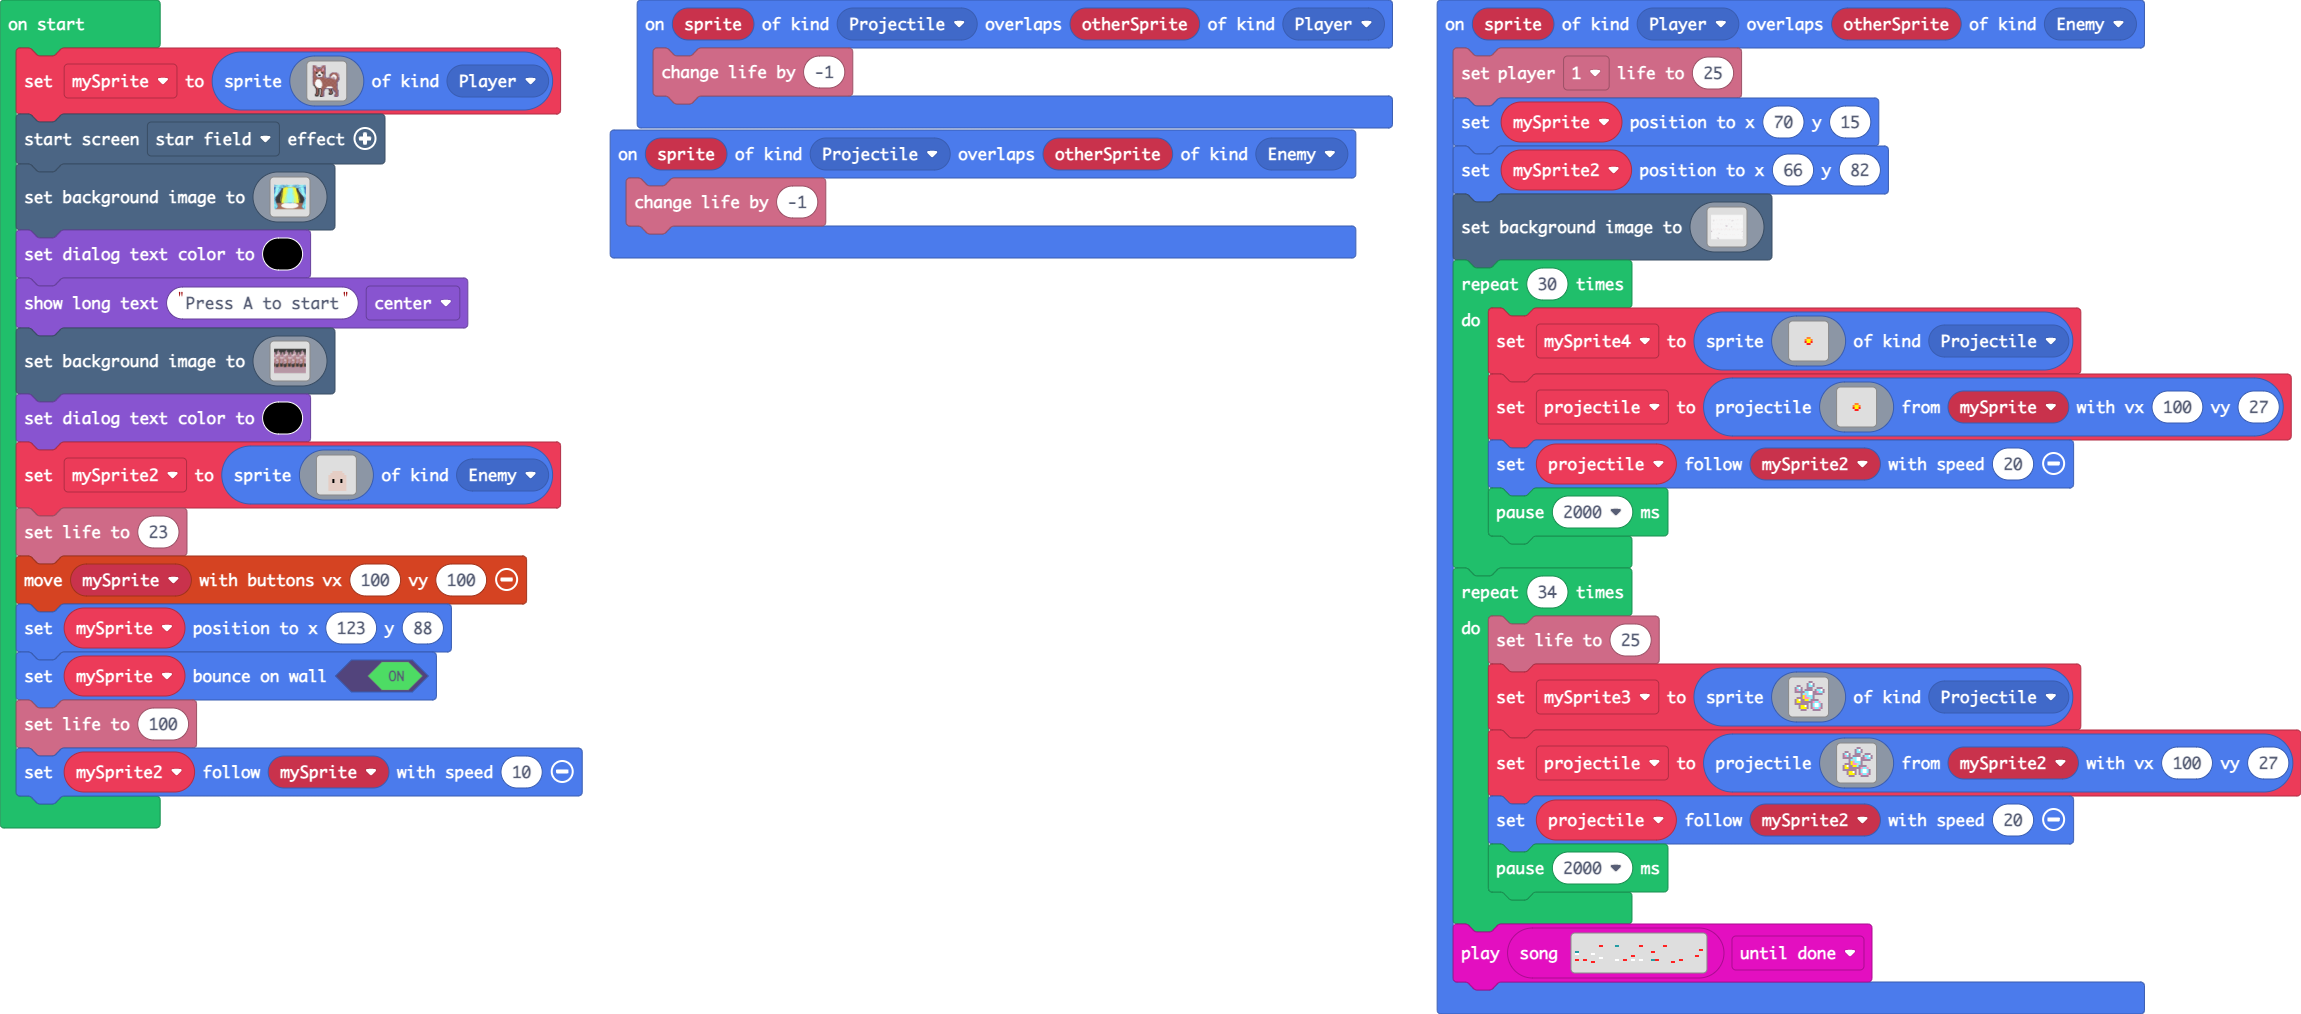
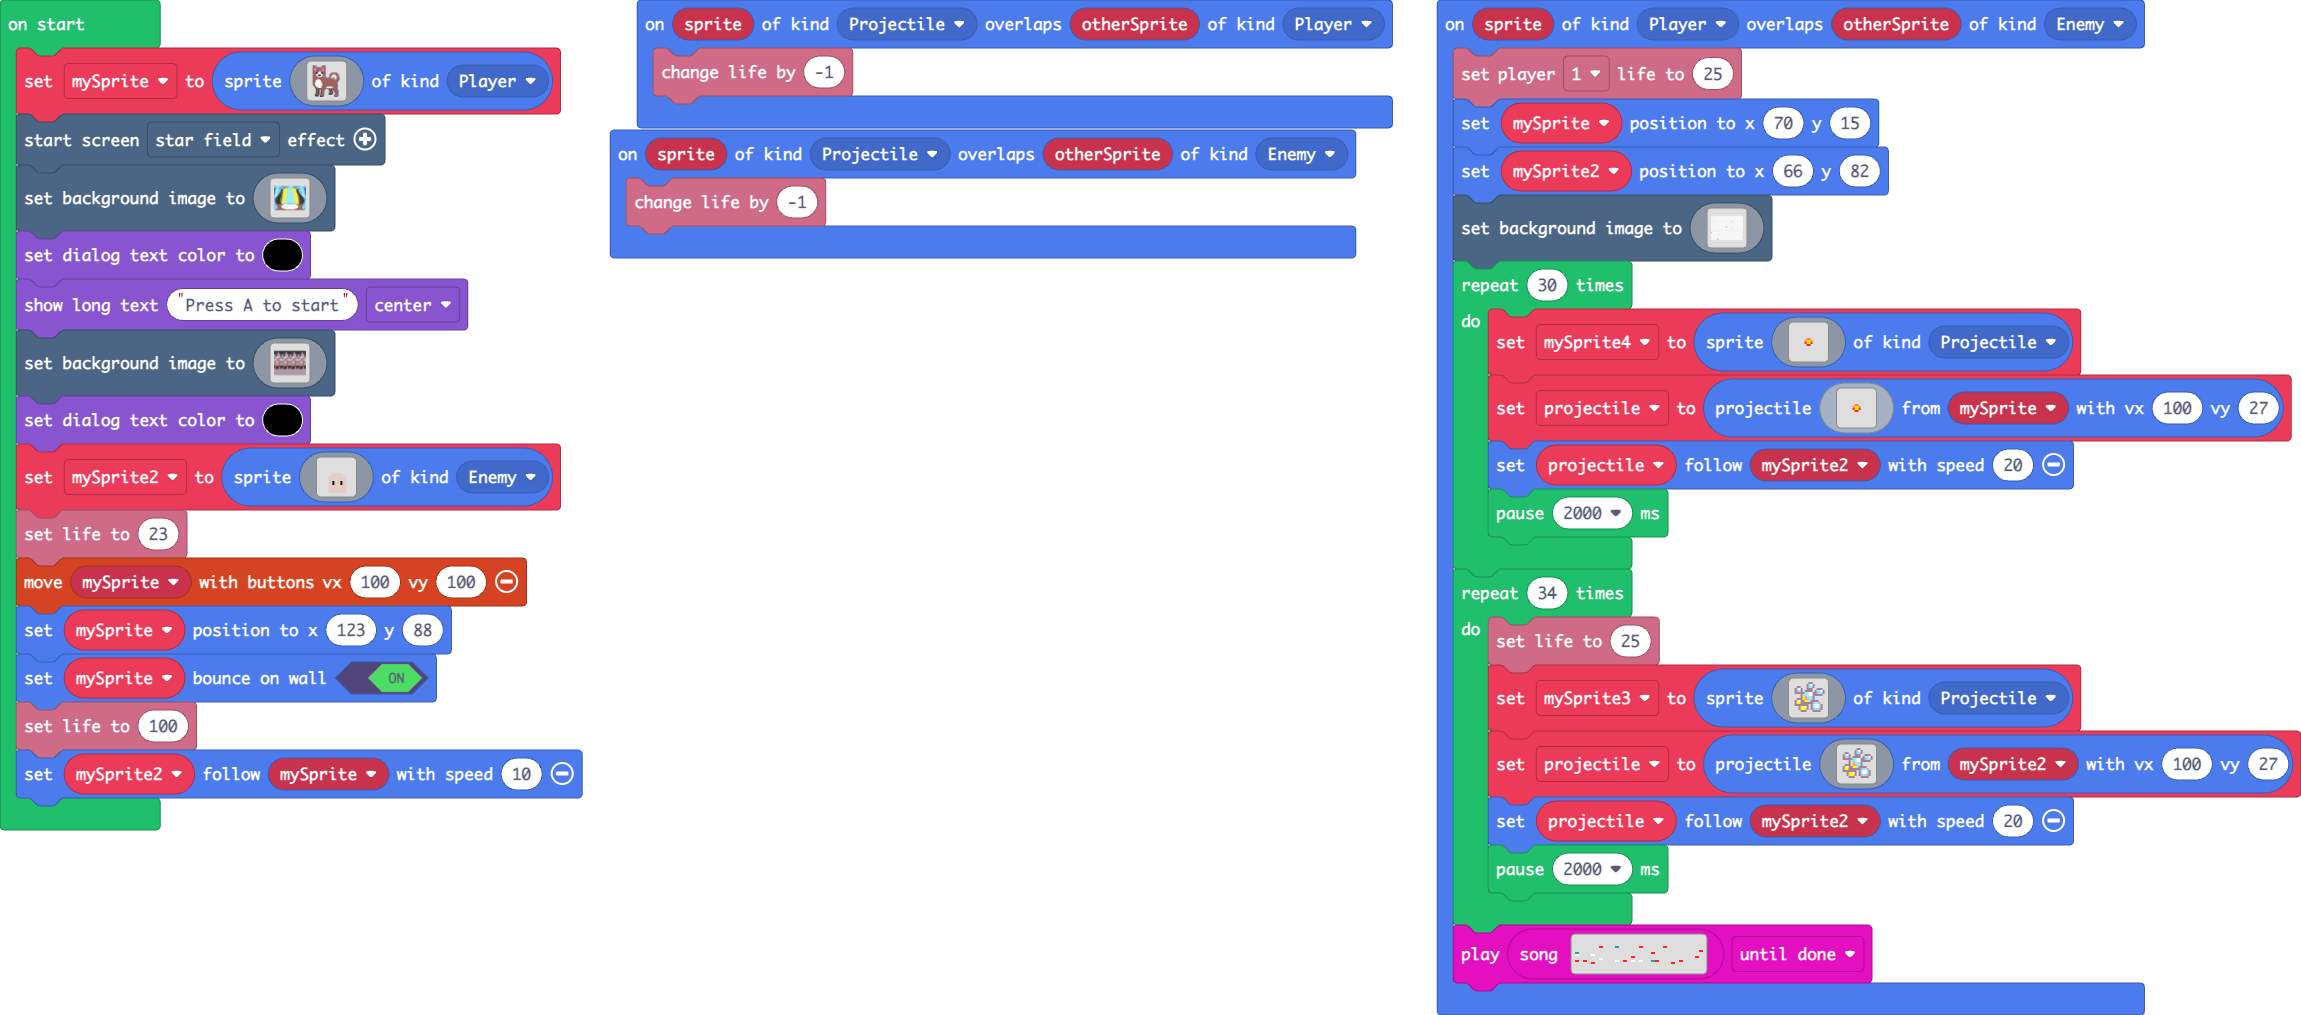
Updated asset names

diff --git a/main.ts b/main.ts
@@ -10,83 +10,15 @@ sprites.onOverlap(SpriteKind.Player, SpriteKind.Enemy, function (sprite, otherSp
     mySprite2.setPosition(66, 82)
     scene.setBackgroundImage(assets.image`Road`)
     for (let index = 0; index < 30; index++) {
-        mySprite4 = sprites.create(img`
-            . . . . . . . . . . . . . . . . 
-            . . . . . . . . . . . . . . . . 
-            . . . . . . . . . . . . . . . . 
-            . . . . . . . . . . . . . . . . 
-            . . . . . . . . . . . . . . . . 
-            . . . . . . . . . . . . . . . . 
-            . . . . . . . 4 4 . . . . . . . 
-            . . . . . . 4 5 5 4 . . . . . . 
-            . . . . . . 2 5 5 2 . . . . . . 
-            . . . . . . . 2 2 . . . . . . . 
-            . . . . . . . . . . . . . . . . 
-            . . . . . . . . . . . . . . . . 
-            . . . . . . . . . . . . . . . . 
-            . . . . . . . . . . . . . . . . 
-            . . . . . . . . . . . . . . . . 
-            . . . . . . . . . . . . . . . . 
-            `, SpriteKind.Projectile)
-        projectile = sprites.createProjectileFromSprite(img`
-            . . . . . . . . . . . . . . . . 
-            . . . . . . . . . . . . . . . . 
-            . . . . . . . . . . . . . . . . 
-            . . . . . . . . . . . . . . . . 
-            . . . . . . . . . . . . . . . . 
-            . . . . . . . . . . . . . . . . 
-            . . . . . . . 4 4 . . . . . . . 
-            . . . . . . 4 5 5 4 . . . . . . 
-            . . . . . . 2 5 5 2 . . . . . . 
-            . . . . . . . 2 2 . . . . . . . 
-            . . . . . . . . . . . . . . . . 
-            . . . . . . . . . . . . . . . . 
-            . . . . . . . . . . . . . . . . 
-            . . . . . . . . . . . . . . . . 
-            . . . . . . . . . . . . . . . . 
-            . . . . . . . . . . . . . . . . 
-            `, mySprite, 100, 27)
+        mySprite4 = sprites.create(assets.image`Fireball1`, SpriteKind.Projectile)
+        projectile = sprites.createProjectileFromSprite(assets.image`Fireball1`, mySprite, 100, 27)
         projectile.follow(mySprite2, 20)
         pause(2000)
     }
     for (let index = 0; index < 34; index++) {
         info.setLife(25)
-        mySprite3 = sprites.create(img`
-            . . . . . . . . b b . . . . . . 
-            . . . . . . . b 9 1 b . . . . . 
-            . . b b . . . b 9 9 b . . . . . 
-            . b 9 1 b . . b b b . . b b b . 
-            . b 3 9 b . b b b b . b 9 9 1 b 
-            . b b b b b 9 9 1 1 b b 3 9 9 b 
-            . . . . b 9 d 9 1 1 b b b b b . 
-            . . . . b 5 3 9 9 9 b . . . . . 
-            . . b b b 5 3 3 d 9 b . . . . . 
-            . b 5 1 b b 5 5 9 b b b b . . . 
-            . b 5 5 b b b b b b 3 9 9 3 . . 
-            . b b b b b b b . b 9 1 1 9 b . 
-            . . . b 5 5 1 b . b 9 1 1 9 b . 
-            . . . b 5 5 5 b . b 3 9 9 3 b . 
-            . . . . b b b . . . b b b b . . 
-            . . . . . . . . . . . . . . . . 
-            `, SpriteKind.Projectile)
-        projectile = sprites.createProjectileFromSprite(img`
-            . . . . . . . . b b . . . . . . 
-            . . . . . . . b 9 1 b . . . . . 
-            . . b b . . . b 9 9 b . . . . . 
-            . b 9 1 b . . b b b . . b b b . 
-            . b 3 9 b . b b b b . b 9 9 1 b 
-            . b b b b b 9 9 1 1 b b 3 9 9 b 
-            . . . . b 9 d 9 1 1 b b b b b . 
-            . . . . b 5 3 9 9 9 b . . . . . 
-            . . b b b 5 3 3 d 9 b . . . . . 
-            . b 5 1 b b 5 5 9 b b b b . . . 
-            . b 5 5 b b b b b b 3 9 9 3 . . 
-            . b b b b b b b . b 9 1 1 9 b . 
-            . . . b 5 5 1 b . b 9 1 1 9 b . 
-            . . . b 5 5 5 b . b 3 9 9 3 b . 
-            . . . . b b b . . . b b b b . . 
-            . . . . . . . . . . . . . . . . 
-            `, mySprite2, 100, 27)
+        mySprite3 = sprites.create(assets.image`Bubble1`, SpriteKind.Projectile)
+        projectile = sprites.createProjectileFromSprite(assets.image`Bubble2`, mySprite2, 100, 27)
         projectile.follow(mySprite2, 20)
         pause(2000)
     }
@@ -104,24 +36,7 @@ game.setDialogTextColor(15)
 game.showLongText("Press A to start", DialogLayout.Center)
 scene.setBackgroundImage(assets.image`Winter_Tree_Background_Night`)
 game.setDialogTextColor(15)
-mySprite2 = sprites.create(img`
-    . . . . . . . . . . . . . . . . 
-    . . . . . . . . . . . . . . . . 
-    . . . . . . . . . . . . . . . . 
-    . . . . . . . . . . . . . . . . 
-    . . . . . . . . . . . . . . . . 
-    . . . . . . . . . . . . . . . . 
-    . . . . . . d d d d d . . . . . 
-    . . . . . d d d d d d d . . . . 
-    . . . . d d d d d d d d d . . . 
-    . . . . d d d d d d d d d . . . 
-    . . . . d d f d d d f d d . . . 
-    . . . . d d f d d d f d d . . . 
-    . . . . d d d d d d d d d . . . 
-    . . . . d d d d d d d d d . . . 
-    . . . . d d d d d d d d d . . . 
-    . . . . d d d d d d d d d . . . 
-    `, SpriteKind.Enemy)
+mySprite2 = sprites.create(assets.image`Tombstone`, SpriteKind.Enemy)
 info.setLife(23)
 controller.moveSprite(mySprite, 100, 100)
 mySprite.setPosition(123, 88)

diff --git a/images.g.ts b/images.g.ts
@@ -840,6 +840,82 @@ cee111111111eeeeeeeeeeeeeeeeeec..
 ...ffff..feecc.............ceeec.
 .........fffc..............cccc..
 `;
+            case "R!`kcPfAN?]MW7IUx]6`":
+            case "Tombstone":return img`
+. . . . . . . . . . . . . . . . 
+. . . . . . . . . . . . . . . . 
+. . . . . . . . . . . . . . . . 
+. . . . . . . . . . . . . . . . 
+. . . . . . . . . . . . . . . . 
+. . . . . . . . . . . . . . . . 
+. . . . . . d d d d d . . . . . 
+. . . . . d d d d d d d . . . . 
+. . . . d d d d d d d d d . . . 
+. . . . d d d d d d d d d . . . 
+. . . . d d f d d d f d d . . . 
+. . . . d d f d d d f d d . . . 
+. . . . d d d d d d d d d . . . 
+. . . . d d d d d d d d d . . . 
+. . . . d d d d d d d d d . . . 
+. . . . d d d d d d d d d . . . 
+`;
+            case "O[T#~`!^haJ]U$Sr3qzS":
+            case "Fireball1":return img`
+. . . . . . . . . . . . . . . . 
+. . . . . . . . . . . . . . . . 
+. . . . . . . . . . . . . . . . 
+. . . . . . . . . . . . . . . . 
+. . . . . . . . . . . . . . . . 
+. . . . . . . . . . . . . . . . 
+. . . . . . . 4 4 . . . . . . . 
+. . . . . . 4 5 5 4 . . . . . . 
+. . . . . . 2 5 5 2 . . . . . . 
+. . . . . . . 2 2 . . . . . . . 
+. . . . . . . . . . . . . . . . 
+. . . . . . . . . . . . . . . . 
+. . . . . . . . . . . . . . . . 
+. . . . . . . . . . . . . . . . 
+. . . . . . . . . . . . . . . . 
+. . . . . . . . . . . . . . . . 
+`;
+            case "XS!9m{rvMl(Jvx?wL5Ek":
+            case "Bubble1":return img`
+. . . . . . . . b b . . . . . . 
+. . . . . . . b 9 1 b . . . . . 
+. . b b . . . b 9 9 b . . . . . 
+. b 9 1 b . . b b b . . b b b . 
+. b 3 9 b . b b b b . b 9 9 1 b 
+. b b b b b 9 9 1 1 b b 3 9 9 b 
+. . . . b 9 d 9 1 1 b b b b b . 
+. . . . b 5 3 9 9 9 b . . . . . 
+. . b b b 5 3 3 d 9 b . . . . . 
+. b 5 1 b b 5 5 9 b b b b . . . 
+. b 5 5 b b b b b b 3 9 9 3 . . 
+. b b b b b b b . b 9 1 1 9 b . 
+. . . b 5 5 1 b . b 9 1 1 9 b . 
+. . . b 5 5 5 b . b 3 9 9 3 b . 
+. . . . b b b . . . b b b b . . 
+. . . . . . . . . . . . . . . . 
+`;
+            case "auY}IkZuvW(lZXgt*zH=":
+            case "Bubble2":return img`
+. . . . . . . . b b . . . . . . 
+. . . . . . . b 9 1 b . . . . . 
+. . b b . . . b 9 9 b . . . . . 
+. b 9 1 b . . b b b . . b b b . 
+. b 3 9 b . b b b b . b 9 9 1 b 
+. b b b b b 9 9 1 1 b b 3 9 9 b 
+. . . . b 9 d 9 1 1 b b b b b . 
+. . . . b 5 3 9 9 9 b . . . . . 
+. . b b b 5 3 3 d 9 b . . . . . 
+. b 5 1 b b 5 5 9 b b b b . . . 
+. b 5 5 b b b b b b 3 9 9 3 . . 
+. b b b b b b b . b 9 1 1 9 b . 
+. . . b 5 5 1 b . b 9 1 1 9 b . 
+. . . b 5 5 5 b . b 3 9 9 3 b . 
+. . . . b b b . . . b b b b . . 
+. . . . . . . . . . . . . . . . 
+`;
         }
         return null;
     })
